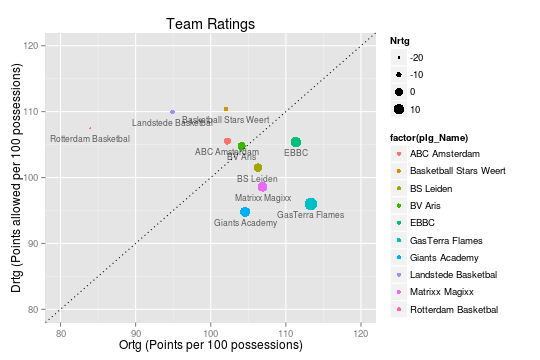
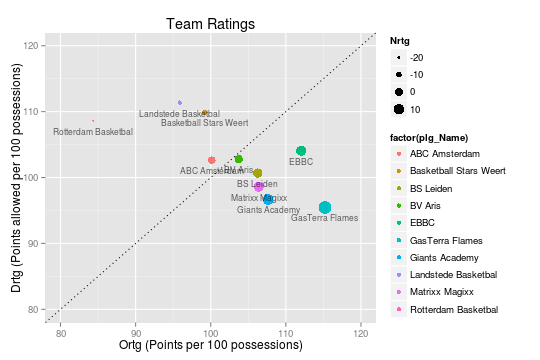
Updated report files

Changed region(s): [[0.0889, 0.3056, 0.6815, 0.6417], [0.5333, 0.3667, 0.5926, 0.4583]]

diff --git a/site/pages/reports/2009-2010/teamindicators_regular_season.rst b/site/pages/reports/2009-2010/teamindicators_regular_season.rst
@@ -10,33 +10,41 @@
 2009-2010 Regular season
 ====================================================
 
-Teams
------
+Results
+-------
 
 The following teams are in this competition:
 
 
++----+------------------------+------+-------+-------+-----------+-----------+-----------+
+|    | plg_Name               | pct  | W     | L     | avg(Nrtg) | avg(Ortg) | avg(Drtg) |
++====+========================+======+=======+=======+===========+===========+===========+
+| 1  | GasTerra Flames        | 0.92 | 33.00 | 3.00  | 19.74     | 115.21    | 95.47     |
++----+------------------------+------+-------+-------+-----------+-----------+-----------+
+| 2  | Giants Academy         | 0.67 | 24.00 | 12.00 | 10.97     | 107.64    | 96.67     |
++----+------------------------+------+-------+-------+-----------+-----------+-----------+
+| 3  | EBBC                   | 0.64 | 23.00 | 12.00 | 7.98      | 112.04    | 104.06    |
++----+------------------------+------+-------+-------+-----------+-----------+-----------+
+| 4  | Matrixx Magixx         | 0.64 | 23.00 | 13.00 | 7.79      | 106.40    | 98.60     |
++----+------------------------+------+-------+-------+-----------+-----------+-----------+
+| 5  | BS Leiden              | 0.61 | 22.00 | 14.00 | 5.60      | 106.27    | 100.68    |
++----+------------------------+------+-------+-------+-----------+-----------+-----------+
+| 6  | BV Aris                | 0.53 | 19.00 | 16.00 | 0.92      | 103.71    | 102.79    |
++----+------------------------+------+-------+-------+-----------+-----------+-----------+
+| 7  | ABC Amsterdam          | 0.39 | 14.00 | 22.00 | -2.50     | 100.15    | 102.65    |
++----+------------------------+------+-------+-------+-----------+-----------+-----------+
+| 8  | Basketball Stars Weert | 0.33 | 12.00 | 24.00 | -10.71    | 99.17     | 109.88    |
++----+------------------------+------+-------+-------+-----------+-----------+-----------+
+| 9  | Landstede Basketbal    | 0.14 | 5.00  | 31.00 | -15.52    | 95.86     | 111.38    |
++----+------------------------+------+-------+-------+-----------+-----------+-----------+
+| 10 | Rotterdam Basketbal    | 0.11 | 4.00  | 32.00 | -24.26    | 84.37     | 108.64    |
++----+------------------------+------+-------+-------+-----------+-----------+-----------+
 
-::
-
-    ##    plg_ID               plg_Name
-    ## 1    1771    Landstede Basketbal
-    ## 2    2393         Matrixx Magixx
-    ## 3    2571 Basketball Stars Weert
-    ## 4    2823                   EBBC
-    ## 5    3103    Rotterdam Basketbal
-    ## 6    3107              BS Leiden
-    ## 7    3120          ABC Amsterdam
-    ## 8    3138                BV Aris
-    ## 9    6115         Giants Academy
-    ## 10   8594        GasTerra Flames
 
 
 
-
-
-Ratings
--------
+Ratings and Pace
+----------------
 
 
 .. figure:: figure/rating-quadrant.png
@@ -67,14 +75,20 @@ Ratings
 
 
 
+.. figure:: figure/pace-by-team.png
+    :alt: 
+
+    
+
+
 Four Factors
 ------------
 
-The net rating is plotted against all "four factors"" 
+The net rating is plotted against all "four factors"
 for all games in this competition.
 These plots show us how each of the four factors influences the net rating.
 Because we can assume the net rating to be the best indicator of actually winning games,
-these plots show ho and how strongly each of the four factor contribute to winning basketball games in the DBL in this season. 
+these plots show how and how strongly each of the four factors contribute to winning basketball games in the DBL in this season. 
 
 
 .. figure:: figure/net-rating-by-four-factor.png
@@ -98,3 +112,84 @@ The correlation matrix for the four factors and the net rating is displayed belo
 
 
 
+
+By Team
+^^^^^^^
+
+
+.. figure:: figure/efg-by-team.png
+    :alt: 
+
+    
+
+
+
+.. figure:: figure/or-pct-by-team.png
+    :alt: 
+
+    
+
+
+
+.. figure:: figure/to-pct-team.png
+    :alt: 
+
+    
+
+
+
+.. figure:: figure/ftt-pct-team.png
+    :alt: 
+
+    
+
+
+By Opponent
+^^^^^^^^^^^
+
+
+.. figure:: figure/opp-efg-by-team.png
+    :alt: 
+
+    
+
+
+
+.. figure:: figure/opp-or-pct-by-team.png
+    :alt: 
+
+    
+
+
+
+.. figure:: figure/opp-to-pct-team.png
+    :alt: 
+
+    
+
+
+
+.. figure:: figure/opp-ftt-pct-team.png
+    :alt: 
+
+    
+
+
+Points
+------
+
+
+.. figure:: figure/point-differential-by-team.png
+    :alt: 
+
+    
+
+
+
+
+.. todo::
+
+  Add a header:
+  
+   * date of last analyzed games
+   * number of games analyzed
